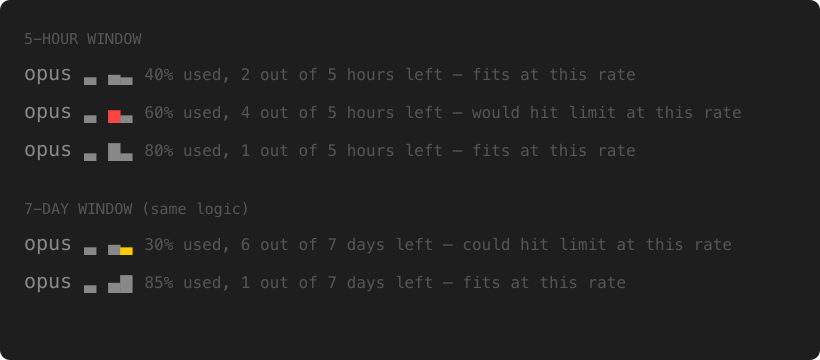
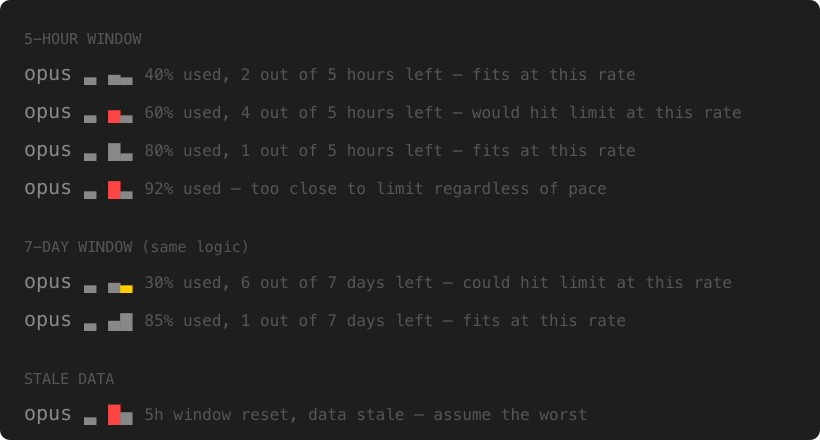
Add stale-data detection, ≥90% threshold, and fetch resilience
Stale quota data (window reset since last fetch) now shows full red bar
to signal untrusted data. Usage ≥90% always shows red regardless of pace.
Curl gets a 3s timeout to prevent hanging, cache bumped to 2 min, and
failed fetches touch the cache to avoid retry storms.

diff --git a/README.md b/README.md
@@ -34,13 +34,17 @@ opus ▃ ▄▃
 pace_delta = utilization% - elapsed% of current window
 ```
 
-| Pace delta | Color | Meaning |
-|------------|-------|---------|
-| ≤ 10% | gray | On pace, you'll fit |
-| 11-30% | yellow | Ahead of pace, watch it |
-| > 30% | red | Way ahead, slow down |
+| Condition | Color | Meaning |
+|-----------|-------|---------|
+| stale (past reset) | red █ | Window reset, data is stale — assume the worst |
+| ≥ 90% used | red | Too close to limit regardless of pace |
+| > 30% ahead | red | Way ahead, slow down |
+| 11-30% ahead | yellow | Ahead of pace, watch it |
+| ≤ 10% ahead | gray | On pace, you'll fit |
 
-Bar height always shows absolute utilization. A tall gray bar means "almost full but resetting soon". A tall red bar means "almost full AND burning too fast".
+Bar height always shows absolute utilization. A tall gray bar means "almost full but resetting soon". A tall red bar means "almost full AND burning too fast". At 90%+ usage, the bar always goes red — even if you're on pace, you're too close to the limit for comfort.
+
+When the API can't be reached (e.g. rate limited during heavy use), the cache goes stale. If the quota window has reset since the last successful fetch, the bar shows full red — the data is from a previous window and can't be trusted.
 
 ## Requirements
 
@@ -71,10 +75,12 @@ Restart Claude Code.
 ## How it works
 
 1. Claude Code pipes JSON to the script on each render (contains `model.id` and `context_window.used_percentage`).
-2. The script fetches quota data from `api.anthropic.com/api/oauth/usage`, cached for 1 minute at `~/.cache/claude-usage.json`.
+2. The script fetches quota data from `api.anthropic.com/api/oauth/usage`, cached for 2 minutes at `~/.cache/claude-usage.json`.
 3. The OAuth token is read from macOS Keychain (`Claude Code-credentials`).
+4. API calls have a 3-second timeout so a slow or unresponsive API can't hang your statusline.
+5. On fetch failure (429, timeout, etc.), the cache mtime is touched to prevent retrying on every render.
 
-The 1-minute cache means a burst of parallel agents can burn through quota before the statusline updates. The absolute bar height helps — if you see tall bars, tread carefully even if they're gray.
+The 2-minute cache means a burst of parallel agents can burn through quota before the statusline updates. The absolute bar height helps — if you see tall bars, tread carefully even if they're gray.
 
 ## License
 
